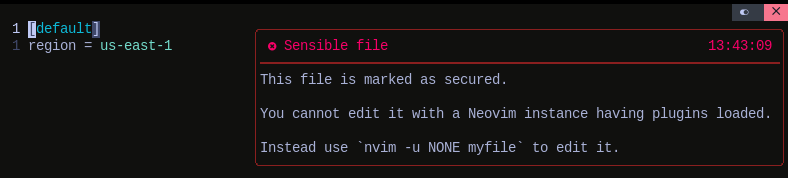
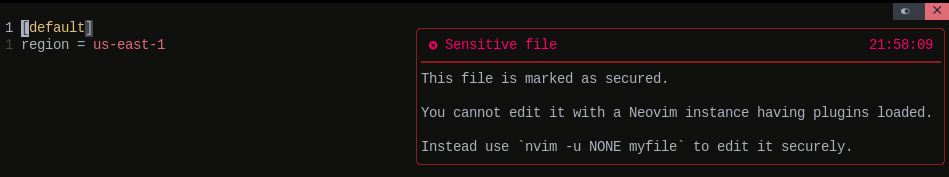
Fix bad sensible English word.

diff --git a/README.md b/README.md
@@ -2,9 +2,9 @@
 
 [![Mentioned in Awesome Neovim](https://awesome.re/mentioned-badge-flat.svg)](https://github.com/rockerBOO/awesome-neovim)
 
-A plugin to secure edition of files containing sensible information (passwords, API keys, private keys, etc.).
+A plugin to secure edition of files containing sensitive information (passwords, API keys, private keys, etc.).
 
-You cannot guarantee all your Neovim plugins are 100% secured and do not leak sensible information. 
+You cannot guarantee all your Neovim plugins are 100% secured and do not leak sensitive information. 
 
 So do not open your secure file under your standard `nvim` setup!
 
@@ -16,9 +16,9 @@ Are you 100% sure your SSH keys are not sent to Github?
 
 Is it reasonable to have a blind trust with Github privacy? What if the privacy changes over time and is relaxed? What if a Github employee inserts a bug in the Copilot source code which leads to an accidental retention of Prompts? What about a data leak at Github? A hacker succeeding to steal data on the fly?
 
-What about other plugins you installed and are testing? Are you sure they'll not send sensible information remotely when you enter stuffs in your Neovim buffers?
+What about other plugins you installed and are testing? Are you sure they'll not send sensitive information remotely when you enter stuffs in your Neovim buffers?
 
-The readonly.nvim plugin helps to not worry about secure data leaks by marking specific files as "sensible". When you try to open those files they are opened using a read only mode by default and an error is displayed to indicate you to edit the file using a very basic editor (or editor command) instead.
+The readonly.nvim plugin helps to not worry about secure data leaks by marking specific files as "sensitive". When you try to open those files they are opened using a read only mode by default and an error is displayed to indicate you to edit the file using a very basic editor (or editor command) instead.
 
 ## :zap: Requirements
 
@@ -26,7 +26,7 @@ Just Neovim and the [nvim-notify](https://github.com/rcarriga/nvim-notify) plugi
 
 ## :pencil: Usage
 
-Suppose you would like to protect the following sensible files.
+Suppose you would like to protect the following sensitive files.
 
 - `~/.aws/config`
 - `~/.aws/credentials`
